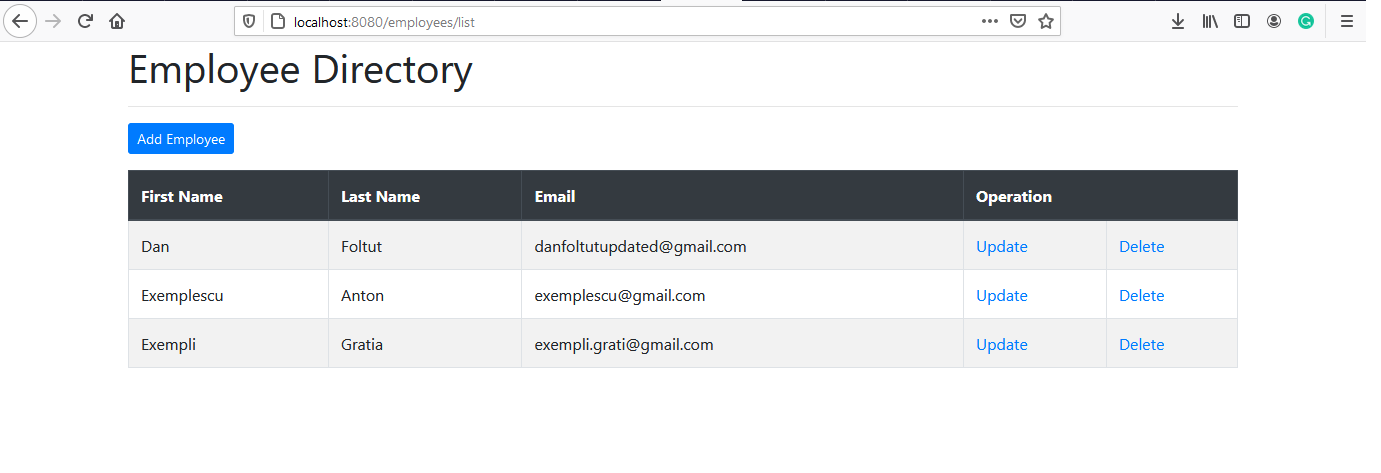
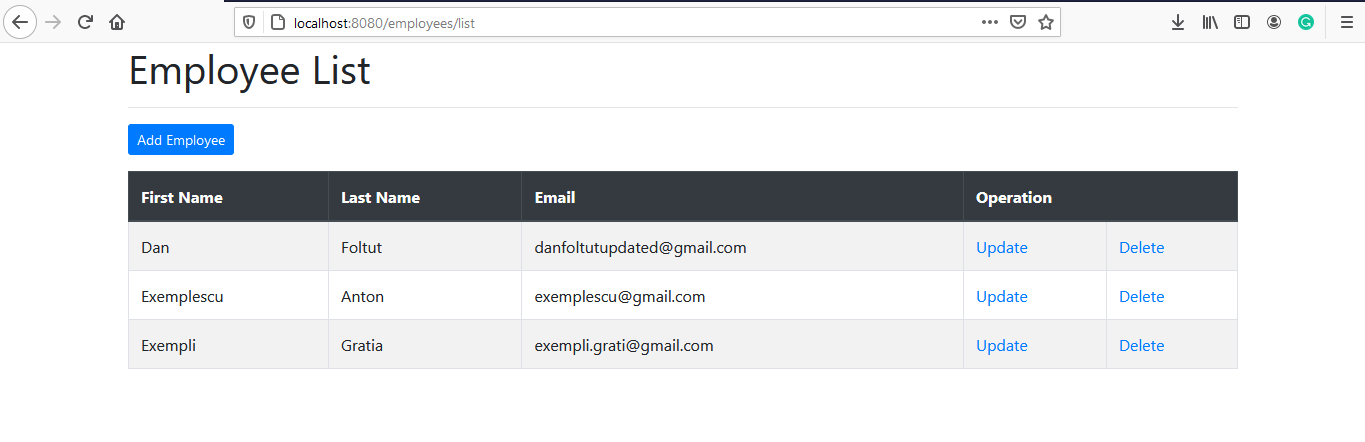
Finished

diff --git a/src/main/resources/templates/list-employees.html b/src/main/resources/templates/list-employees.html
@@ -7,11 +7,11 @@
     <link rel="stylesheet" href="https://stackpath.bootstrapcdn.com/bootstrap/4.4.1/css/bootstrap.min.css" 
     integrity="sha384-Vkoo8x4CGsO3+Hhxv8T/Q5PaXtkKtu6ug5TOeNV6gBiFeWPGFN9MuhOf23Q9Ifjh" 
     crossorigin="anonymous">
-    <title>Employee Directory</title>
+    <title>Employee Information Management</title>
 </head>
 <body>
     <div class="container">
-        <h1>Employee Directory</h1>
+        <h1>Employee List</h1>
         <hr>
 		<a th:href="@{/employees/showFormForAdd}"
 			class="btn btn-primary btn-sm mb-3">Add Employee</a>
